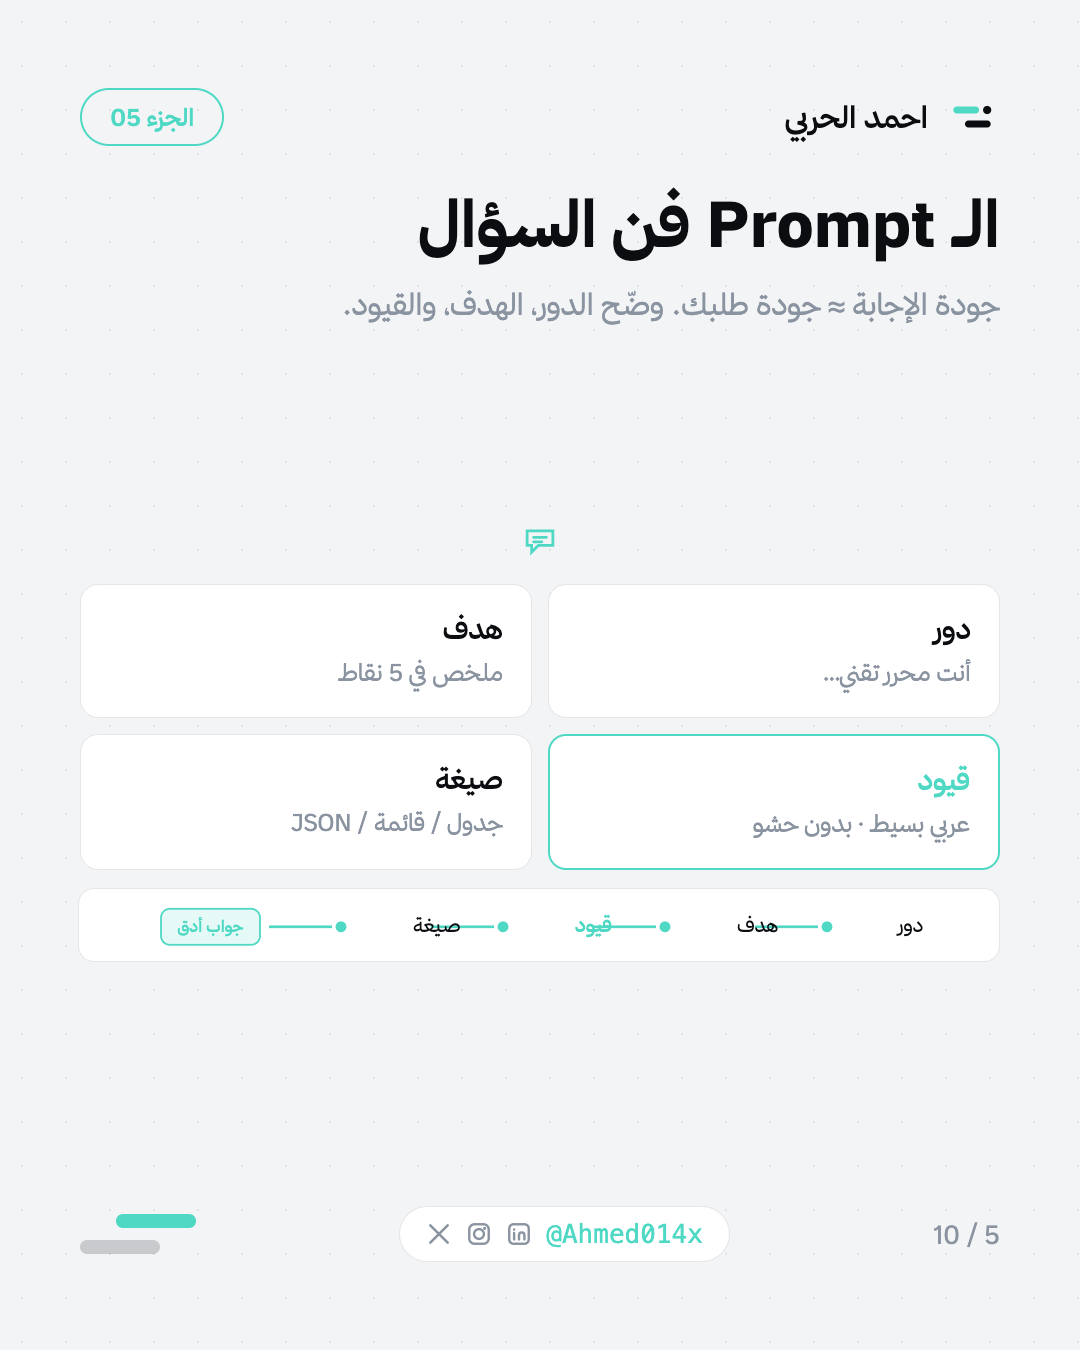
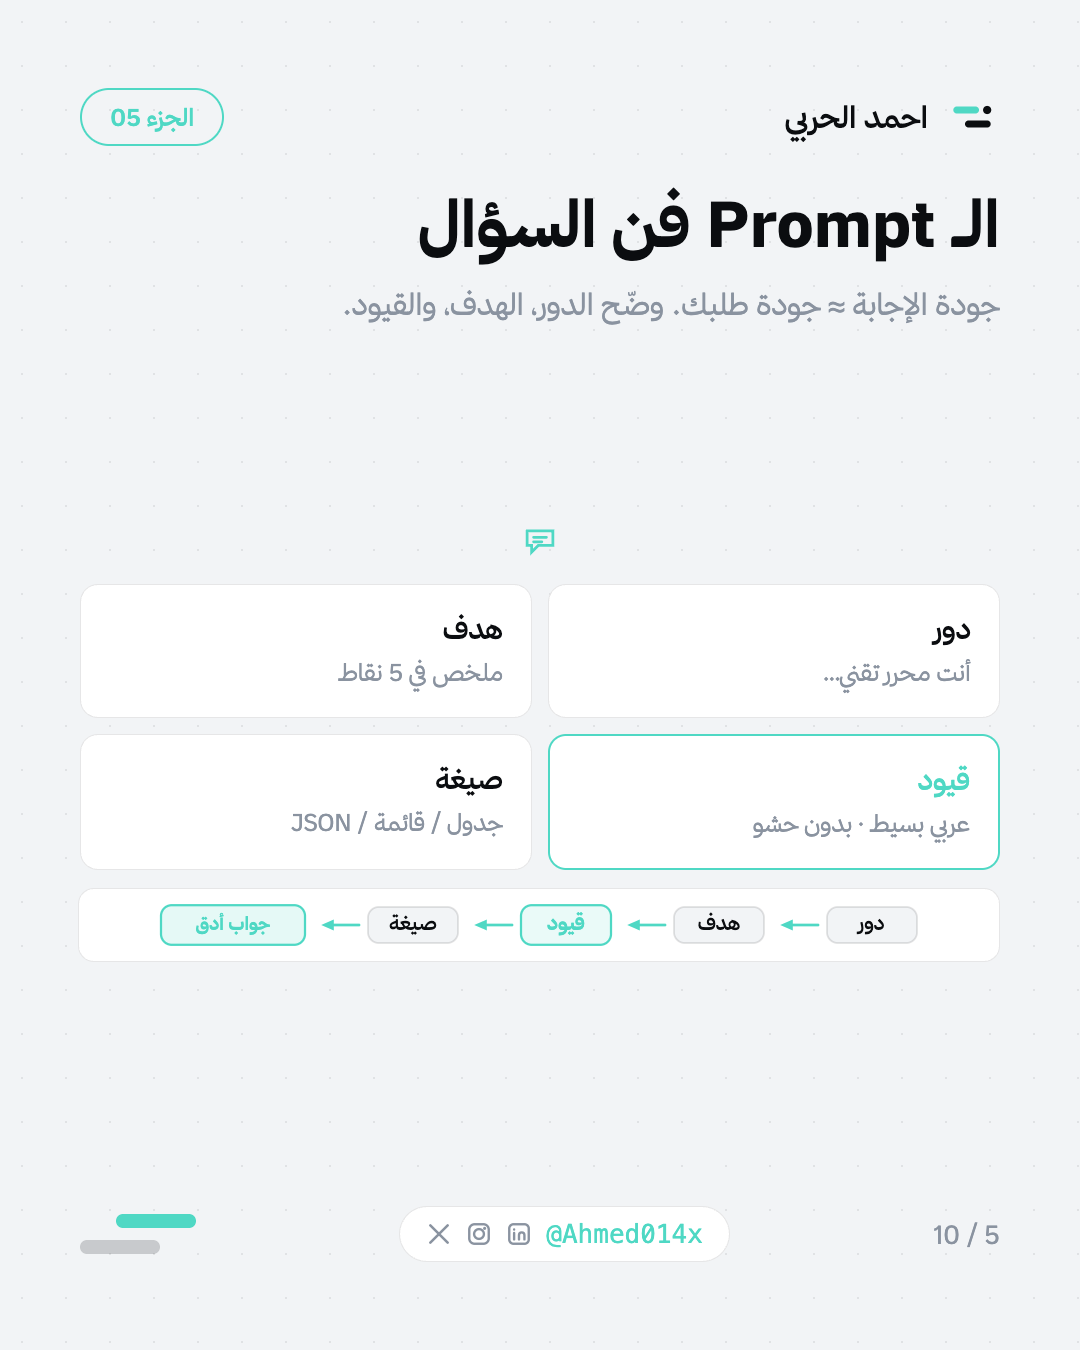
Refine brand package HTML and PNG assets by updating SVG elements, enhancing text layout, and improving visual consistency. Adjustments include new button designs and text placements for better user engagement in the generative AI story series.

diff --git a/brand-package/html/ستوريات-الذكاء-التوليدي.html b/brand-package/html/ستوريات-الذكاء-التوليدي.html
@@ -202,20 +202,24 @@ body{margin:0;background:#e8ebee;font-family:'Thmanyah Sans',sans-serif}
       <div style="background:#ffffff;border:1px solid rgba(11,13,16,.10);border-radius:20px;padding:24px"><div style="font-size:28px;font-weight:600;color:#0b0d10">صيغة</div><div style="margin-top:8px;font-size:24px;color:#8a93a0">جدول / قائمة / JSON</div></div>
     </div>
     <svg viewBox="0 0 920 70" width="100%" height="64" style="background:#ffffff;border-radius:16px;border:1px solid rgba(11,13,16,.10)">
-      <text x="860" y="42" text-anchor="end" fill="#0b0d10" font-size="20" font-family="Thmanyah Sans">دور</text>
-      <circle cx="790" cy="36" r="5" fill="#4fd8c4"/>
-      <line x1="780" y1="36" x2="700" y2="36" stroke="#4fd8c4" stroke-width="3"/>
-      <text x="680" y="42" text-anchor="end" fill="#0b0d10" font-size="20" font-family="Thmanyah Sans">هدف</text>
-      <circle cx="610" cy="36" r="5" fill="#4fd8c4"/>
-      <line x1="600" y1="36" x2="520" y2="36" stroke="#4fd8c4" stroke-width="3"/>
-      <text x="500" y="42" text-anchor="end" fill="#4fd8c4" font-size="20" font-family="Thmanyah Sans" font-weight="600">قيود</text>
-      <circle cx="430" cy="36" r="5" fill="#4fd8c4"/>
-      <line x1="420" y1="36" x2="340" y2="36" stroke="#4fd8c4" stroke-width="3"/>
-      <text x="320" y="42" text-anchor="end" fill="#0b0d10" font-size="20" font-family="Thmanyah Sans">صيغة</text>
-      <circle cx="250" cy="36" r="5" fill="#4fd8c4"/>
-      <line x1="240" y1="36" x2="160" y2="36" stroke="#4fd8c4" stroke-width="3"/>
-      <rect x="40" y="16" width="110" height="40" rx="10" fill="rgba(79,216,196,.15)" stroke="#4fd8c4" stroke-width="2"/>
-      <text x="95" y="42" text-anchor="middle" fill="#4fd8c4" font-size="18" font-family="Thmanyah Sans" font-weight="600">جواب أدق</text>
+      <rect x="780" y="15" width="100" height="40" rx="12" fill="#f2f4f6" stroke="rgba(11,13,16,.12)" stroke-width="2"/>
+      <text x="830" y="41" text-anchor="middle" fill="#0b0d10" font-size="20" font-family="Thmanyah Sans" font-weight="600">دور</text>
+      <path d="M770 35h-28" stroke="#4fd8c4" stroke-width="3" stroke-linecap="round"/>
+      <polygon points="742,29 728,35 742,41" fill="#4fd8c4"/>
+      <rect x="610" y="15" width="100" height="40" rx="12" fill="#f2f4f6" stroke="rgba(11,13,16,.12)" stroke-width="2"/>
+      <text x="660" y="41" text-anchor="middle" fill="#0b0d10" font-size="20" font-family="Thmanyah Sans" font-weight="600">هدف</text>
+      <path d="M600 35h-28" stroke="#4fd8c4" stroke-width="3" stroke-linecap="round"/>
+      <polygon points="572,29 558,35 572,41" fill="#4fd8c4"/>
+      <rect x="440" y="13" width="100" height="44" rx="12" fill="rgba(79,216,196,.12)" stroke="#4fd8c4" stroke-width="2.5"/>
+      <text x="490" y="41" text-anchor="middle" fill="#4fd8c4" font-size="20" font-family="Thmanyah Sans" font-weight="700">قيود</text>
+      <path d="M430 35h-28" stroke="#4fd8c4" stroke-width="3" stroke-linecap="round"/>
+      <polygon points="402,29 388,35 402,41" fill="#4fd8c4"/>
+      <rect x="270" y="15" width="100" height="40" rx="12" fill="#f2f4f6" stroke="rgba(11,13,16,.12)" stroke-width="2"/>
+      <text x="320" y="41" text-anchor="middle" fill="#0b0d10" font-size="20" font-family="Thmanyah Sans" font-weight="600">صيغة</text>
+      <path d="M260 35h-28" stroke="#4fd8c4" stroke-width="3" stroke-linecap="round"/>
+      <polygon points="232,29 218,35 232,41" fill="#4fd8c4"/>
+      <rect x="40" y="13" width="160" height="44" rx="12" fill="rgba(79,216,196,.15)" stroke="#4fd8c4" stroke-width="2.5"/>
+      <text x="120" y="41" text-anchor="middle" fill="#4fd8c4" font-size="18" font-family="Thmanyah Sans" font-weight="700">جواب أدق</text>
     </svg>
   </div>
   <div style="margin-top:auto;display:flex;flex-direction:column;gap:28px">
